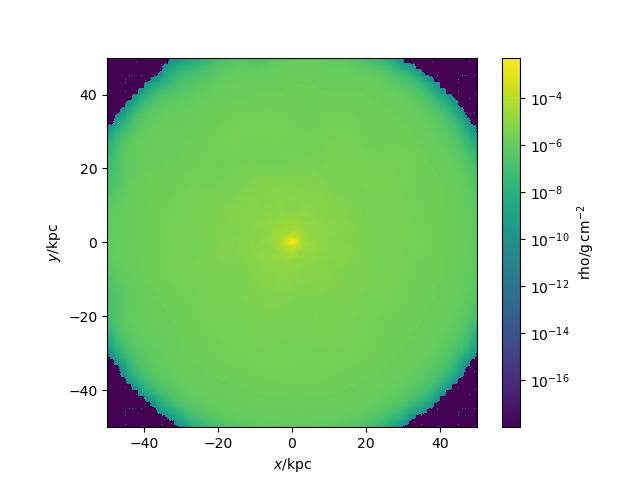
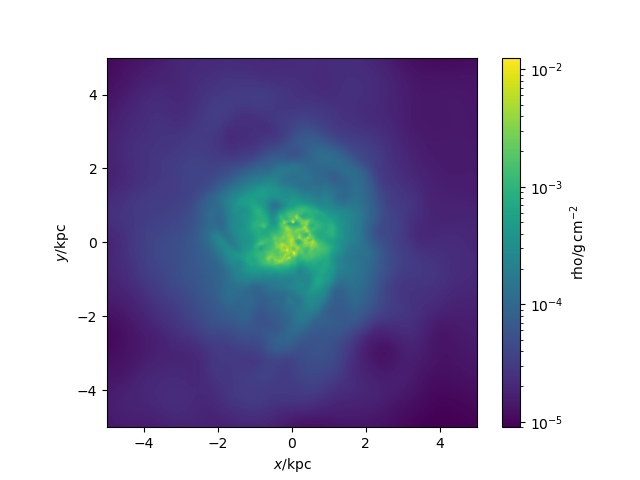
updated

diff --git a/makingpics_intdens.py b/makingpics_intdens.py
@@ -12,7 +12,7 @@ s.physical_units()
 pynbody.analysis.angmom.faceon(s)
 
 #creating image
-sph.image(s.g,qty="rho",units="g cm^-2",width=100)
+sph.image(s.g,qty="rho",units="g cm^-2",width=10)
 
 plt.savefig("intdens.png")
 #plt.show()
